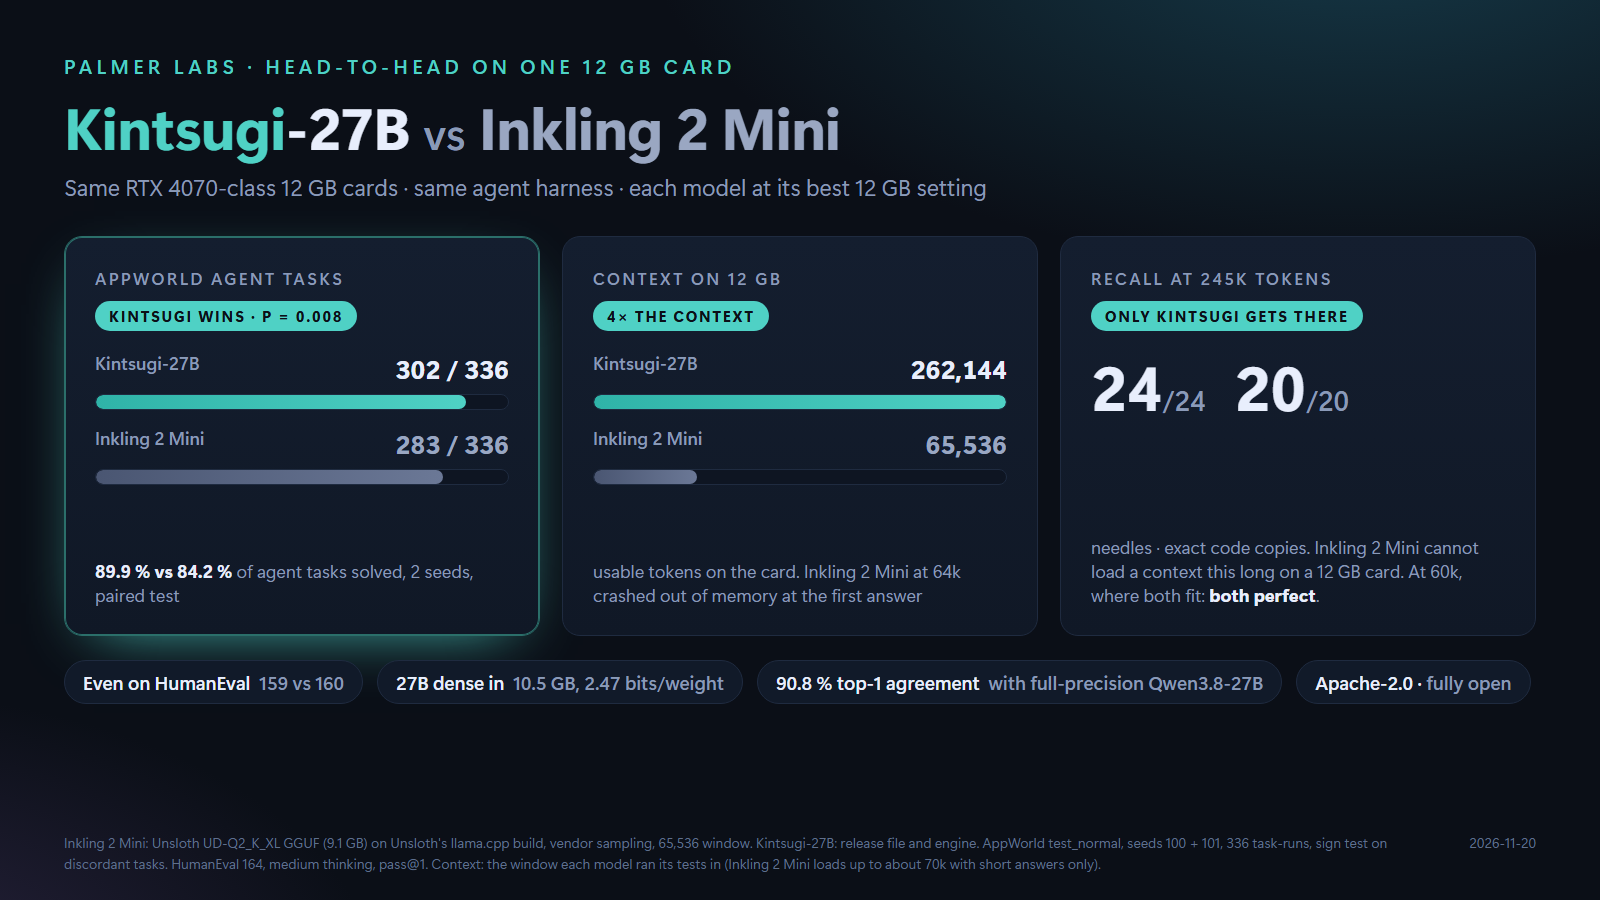
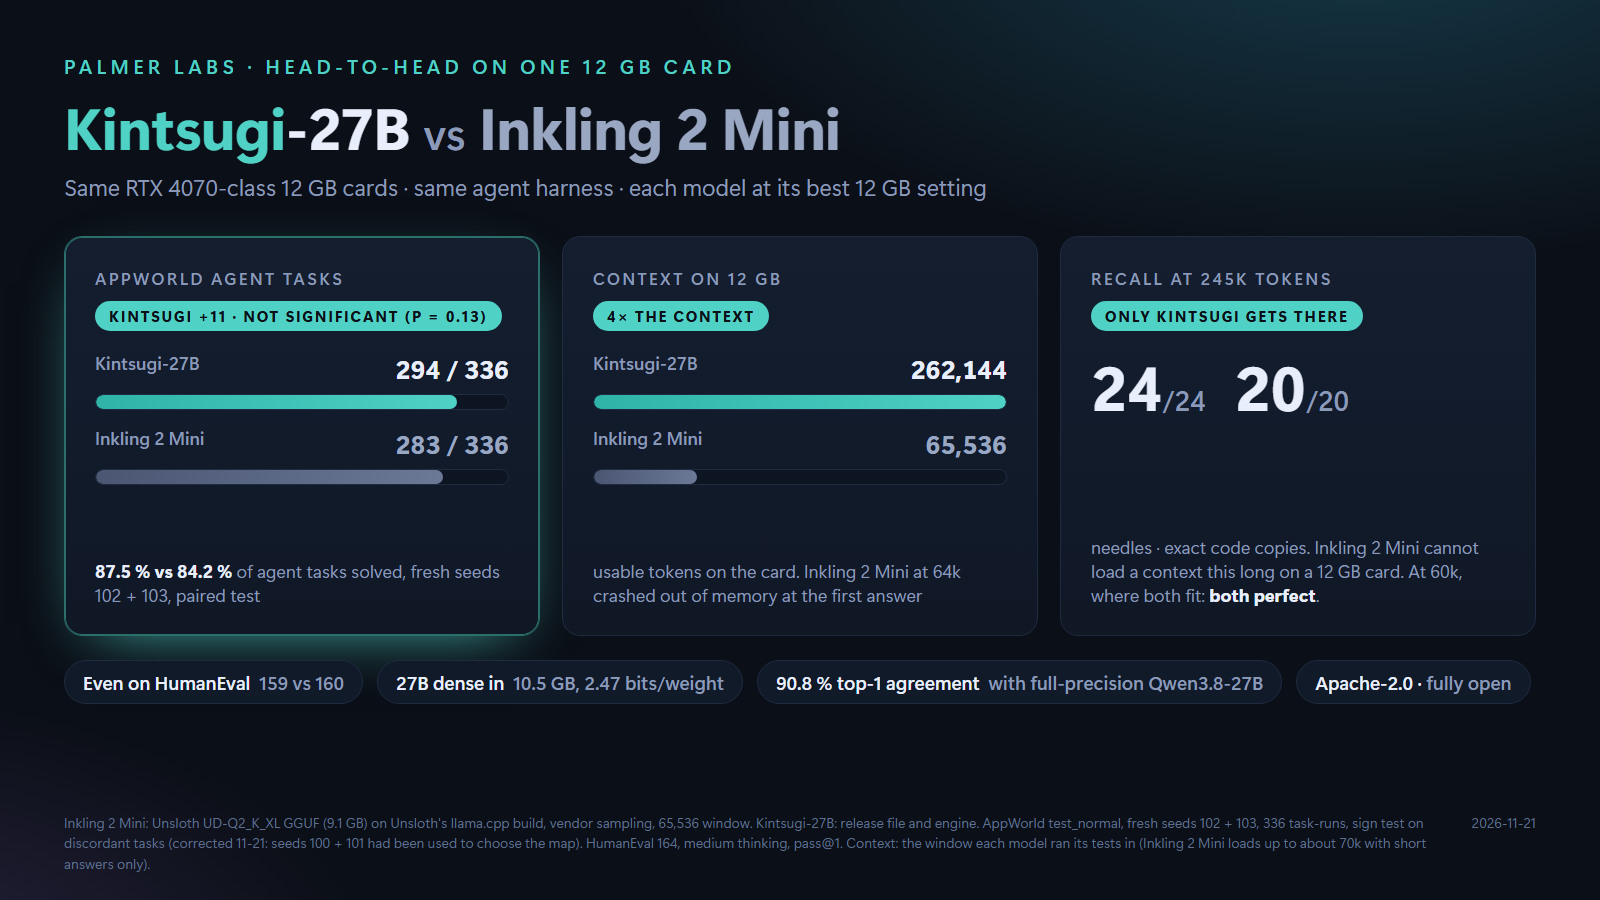
Correct the Inkling 2 Mini AppWorld head-to-head: fresh seeds give 294 vs 283 (p = 0.13), not significant

diff --git a/benchmarks/README.md b/benchmarks/README.md
@@ -58,7 +58,7 @@ rented RTX 4070-class 12 GB boxes (Linux).
 
 | Test | Kintsugi-27B | Inkling 2 Mini | Verdict |
 |---|---|---|---|
-| AppWorld test_normal, seeds 100 and 101 (336 task-runs) | **302 / 336** (89.9 %) | 283 / 336 (84.2 %) | Kintsugi is better. Paired sign test on the discordant tasks: 14 vs 33, p = 0.0079. |
+| AppWorld test_normal, fresh seeds 102 and 103 (336 task-runs; corrected 2026-11-21, see the note below) | **294 / 336** (87.5 %) | 283 / 336 (84.2 %) | No significant difference. Kintsugi solved 11 more task-runs; paired sign test on the discordant tasks: 27 vs 16, p = 0.13. |
 | HumanEval 164, medium thinking, pass@1 | 159 / 164 | 160 / 164 | Even (discordant 4 vs 3, p = 1.00). |
 | Retrieval at depth 60,000 (24 needles + 20 exact code copies) | 24 / 24 and 20 / 20 | 24 / 24 and 20 / 20 | Even. |
 | Retrieval at depth 64,000 | 24 / 24 and 20 / 20 | Stopped with CUDA out of memory at the first decode (67,584-token window) | Only Kintsugi. |
@@ -67,6 +67,12 @@ rented RTX 4070-class 12 GB boxes (Linux).
 
 The HumanEval number on the card (161) is from the home RTX 4070. Here, 159 is the same model on the rented box. This
 difference is normal run-to-run spread.
+
+**Correction (2026-11-21).** This table first reported AppWorld on seeds 100 and 101: Kintsugi-27B 302 / 336, Inkling 2
+Mini 283 / 336, "Kintsugi is better, p = 0.0079". Those two seeds were also the seeds on which we chose Kintsugi-27B's
+bit map, so its score on them was biased upward. We reran both models on two fresh seeds (102 and 103) with the same
+settings. Inkling 2 Mini scored 283 again; Kintsugi-27B scored 294. The difference is not significant (p = 0.13), so we
+withdrew the claim that Kintsugi-27B is better on AppWorld.
 
 **Fairness notes**
 

diff --git a/README.md b/README.md
@@ -21,7 +21,8 @@ and the **EXL3 trellis codec** by turboderp (exllamav3, after QTIP). Full list: 
 - **Runs on RTX 20, 30 and 40 cards** with 12 GB or more.
 - **Fully open**: Apache-2.0 for the model and our files, MIT for the engine. The engine source is in every release.
   The NVIDIA CUDA DLLs in the zip are NVIDIA's (see [NOTICE](NOTICE)).
-- **Head-to-head on one 12 GB card**: against Inkling 2 Mini, AppWorld 302 vs 283 of 336 and 4x the context
+- **Head-to-head on one 12 GB card**: against Inkling 2 Mini, 4x the context, perfect recall at 245k where Inkling
+  cannot load that context, and level on agent tasks (AppWorld 294 vs 283 of 336, not significant; corrected 11-21)
   ([details](benchmarks/README.md#head-to-head-inkling-2-mini-on-the-same-12-gb-card)).
 
 ![Kintsugi-27B](kintsugi-card.png)
